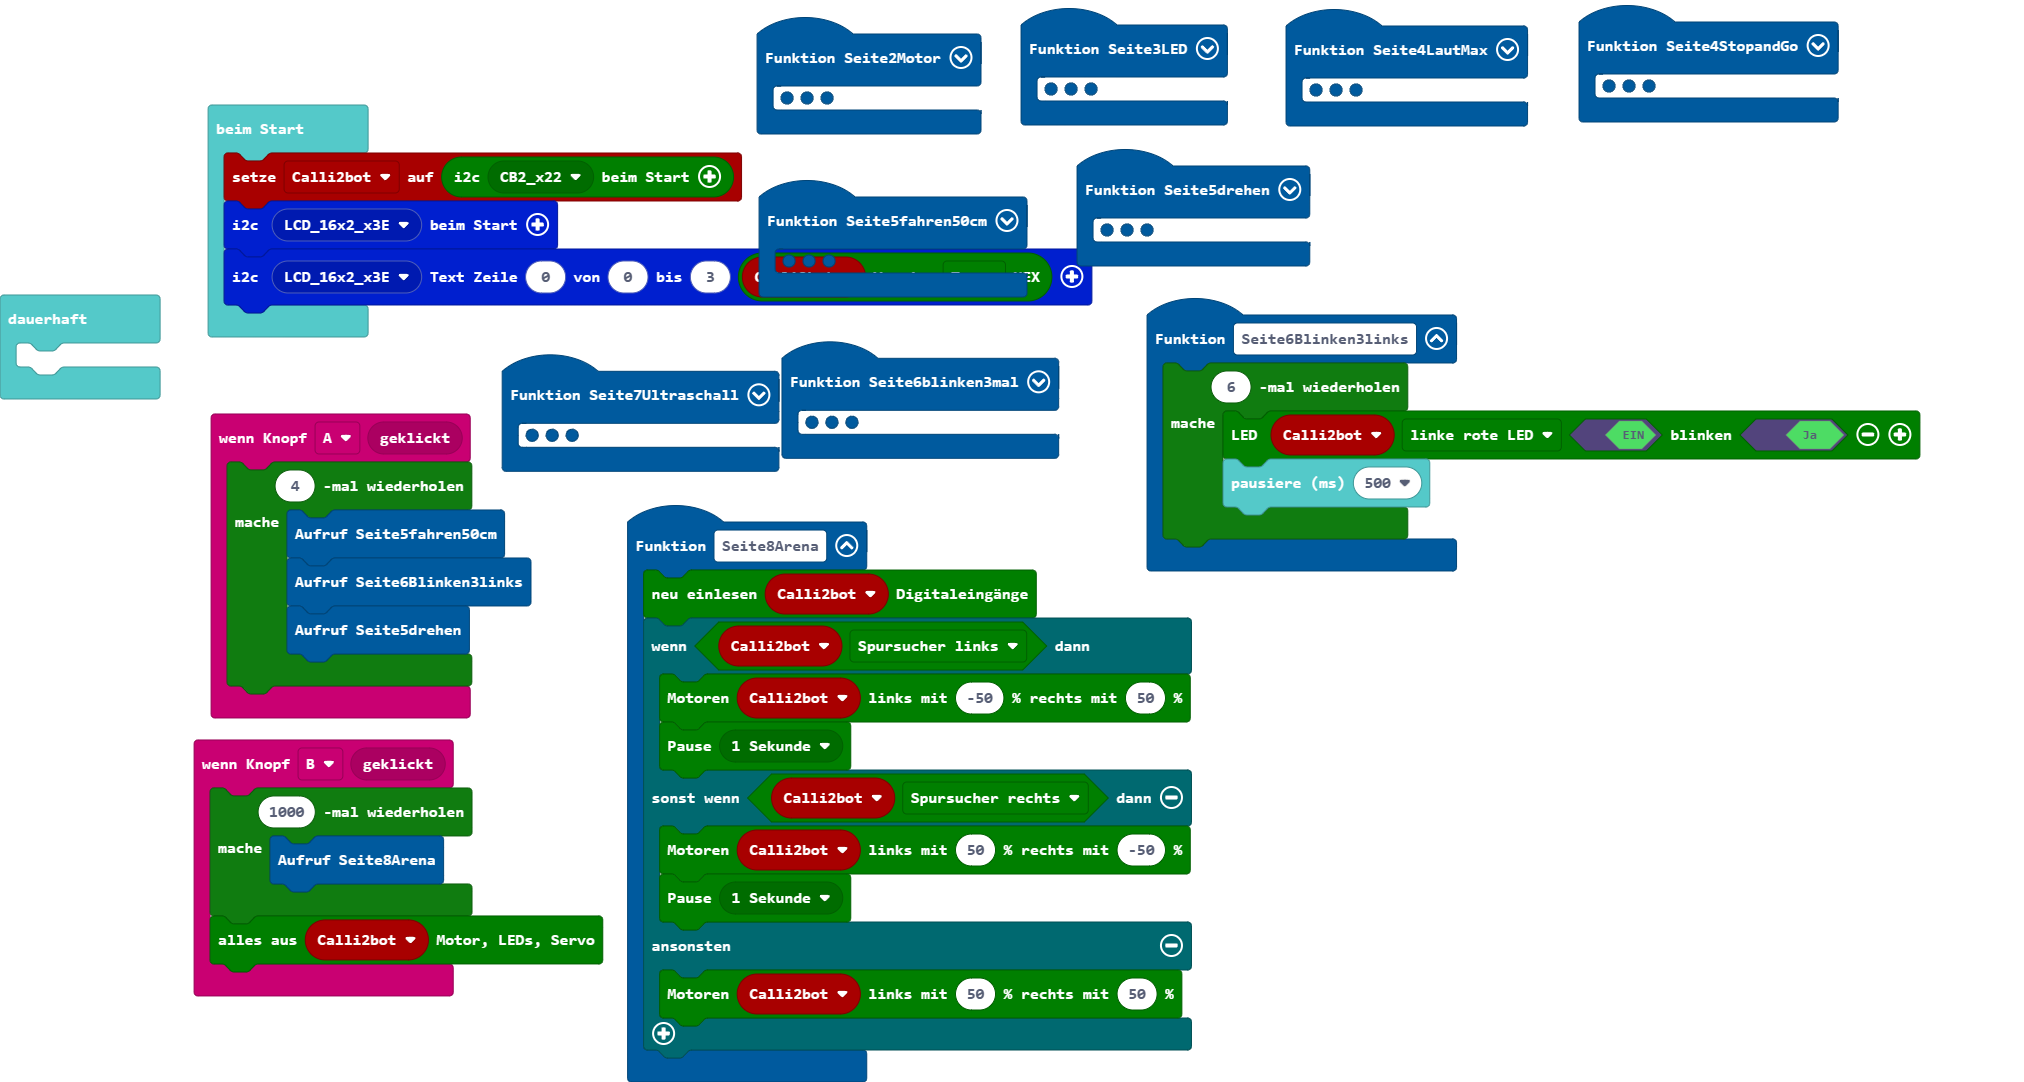
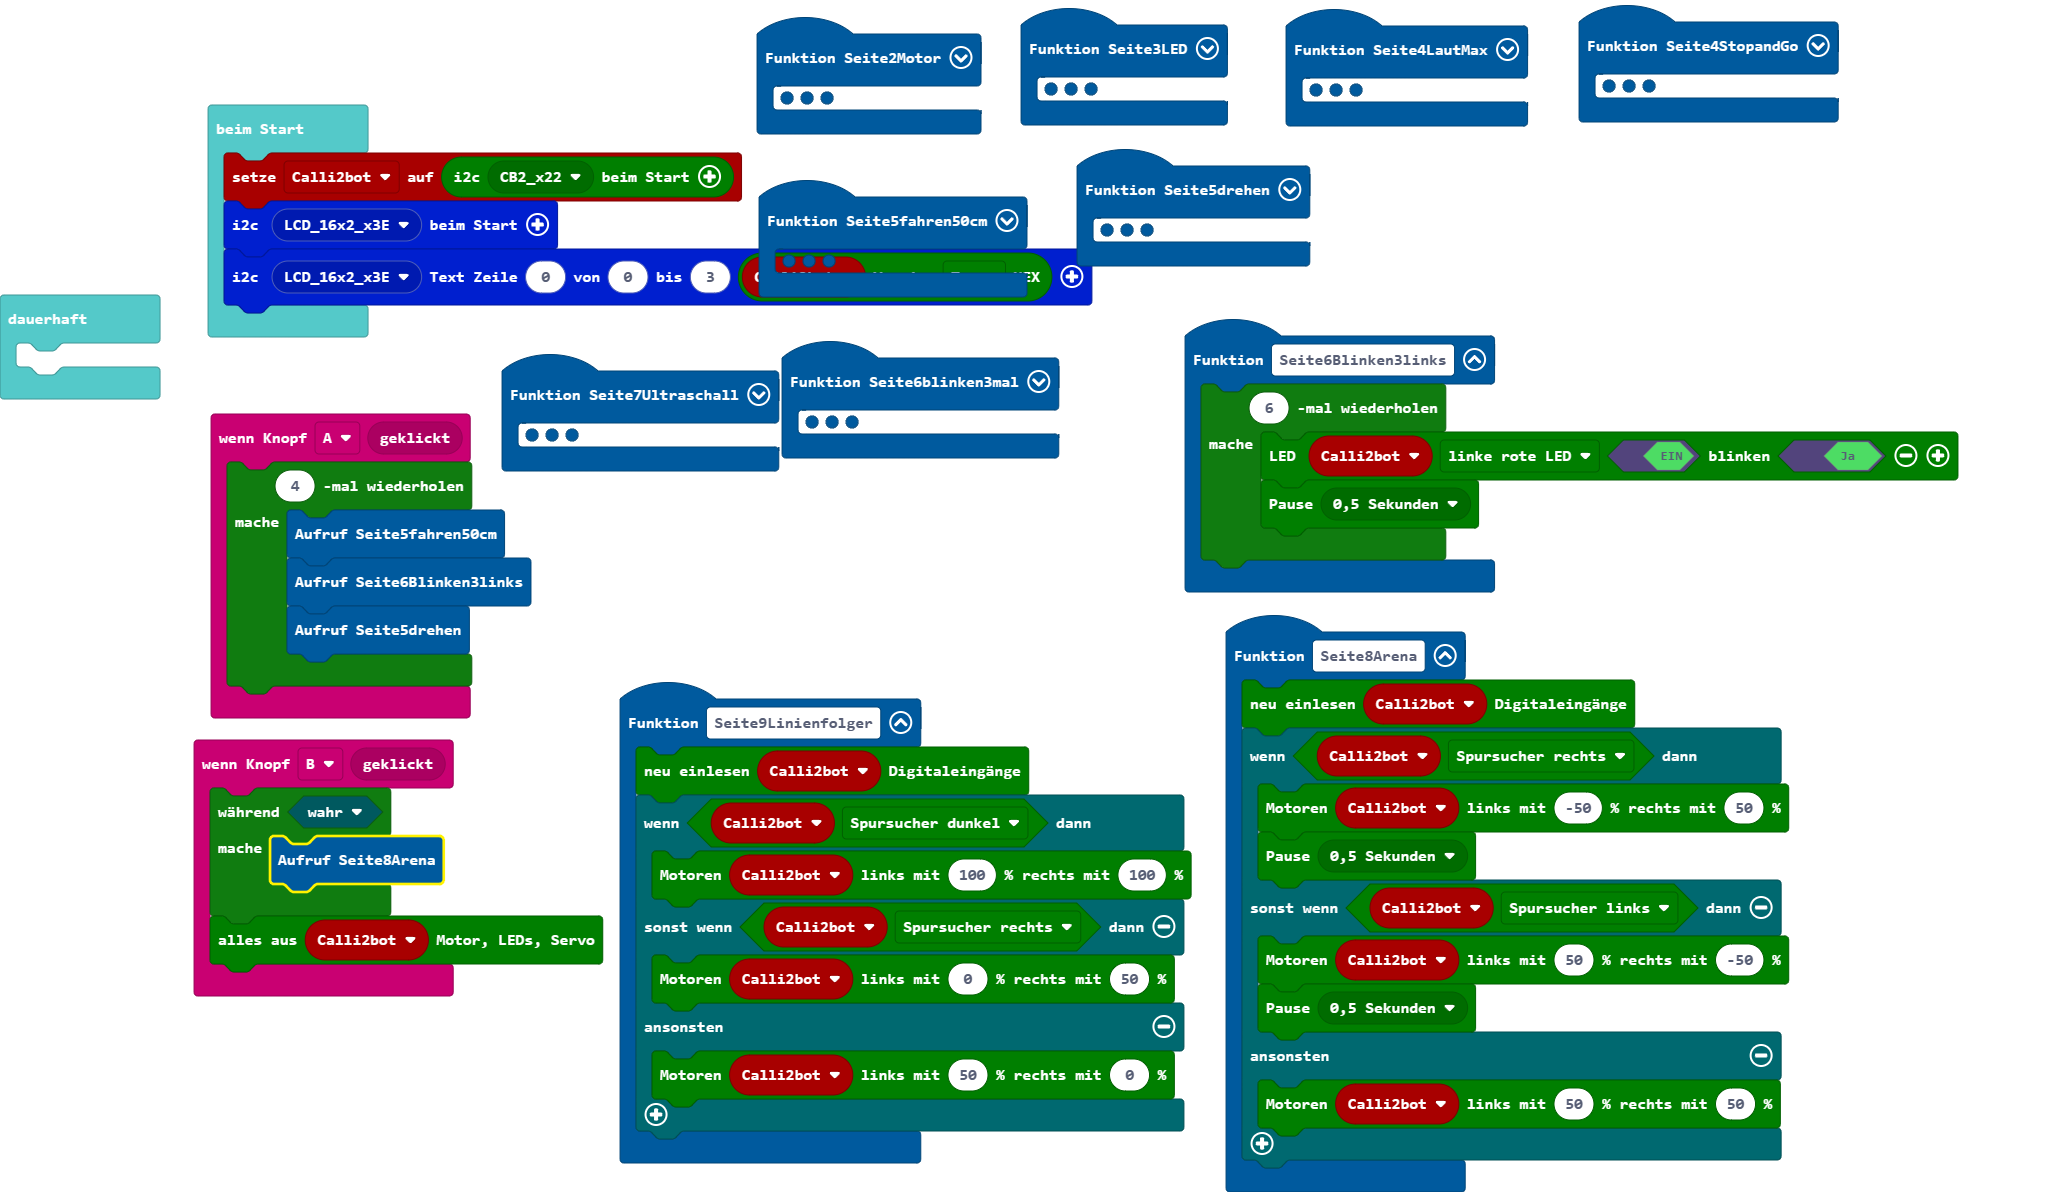
Aktualisiere pxt.json, main.blocks, main.ts

diff --git a/main.ts b/main.ts
@@ -50,14 +50,24 @@ function Seite4StopandGo () {
 }
 function Seite8Arena () {
     Calli2bot.i2cReadINPUTS()
-    if (Calli2bot.bitINPUTS(calli2bot.eINPUTS.sp2)) {
+    if (Calli2bot.bitINPUTS(calli2bot.eINPUTS.sp1)) {
         Calli2bot.setMotoren2(-50, 50)
-        calli2bot.pause(calli2bot.calli2bot_ePause(calli2bot.ePause.p1))
-    } else if (Calli2bot.bitINPUTS(calli2bot.eINPUTS.sp1)) {
+        calli2bot.pause(calli2bot.calli2bot_ePause(calli2bot.ePause.p05))
+    } else if (Calli2bot.bitINPUTS(calli2bot.eINPUTS.sp2)) {
         Calli2bot.setMotoren2(50, -50)
-        calli2bot.pause(calli2bot.calli2bot_ePause(calli2bot.ePause.p1))
+        calli2bot.pause(calli2bot.calli2bot_ePause(calli2bot.ePause.p05))
     } else {
         Calli2bot.setMotoren2(50, 50)
+    }
+}
+function Seite9Linienfolger () {
+    Calli2bot.i2cReadINPUTS()
+    if (Calli2bot.bitINPUTS(calli2bot.eINPUTS.sp0)) {
+        Calli2bot.setMotoren2(100, 100)
+    } else if (Calli2bot.bitINPUTS(calli2bot.eINPUTS.sp1)) {
+        Calli2bot.setMotoren2(0, 50)
+    } else {
+        Calli2bot.setMotoren2(50, 0)
     }
 }
 input.onButtonEvent(Button.A, input.buttonEventClick(), function () {
@@ -75,7 +85,7 @@ function Seite2Motor () {
     Calli2bot.setMotoren2(0, 0)
 }
 input.onButtonEvent(Button.B, input.buttonEventClick(), function () {
-    for (let index = 0; index < 1000; index++) {
+    while (true) {
         Seite8Arena()
     }
     Calli2bot.i2cRESET_OUTPUTS()
@@ -91,7 +101,7 @@ function Seite4LautMax () {
 function Seite6Blinken3links () {
     for (let index = 0; index < 6; index++) {
         Calli2bot.setLed1(calli2bot.eLed.redl, true, true)
-        basic.pause(500)
+        calli2bot.pause(calli2bot.calli2bot_ePause(calli2bot.ePause.p05))
     }
 }
 function Seite7Ultraschall () {
